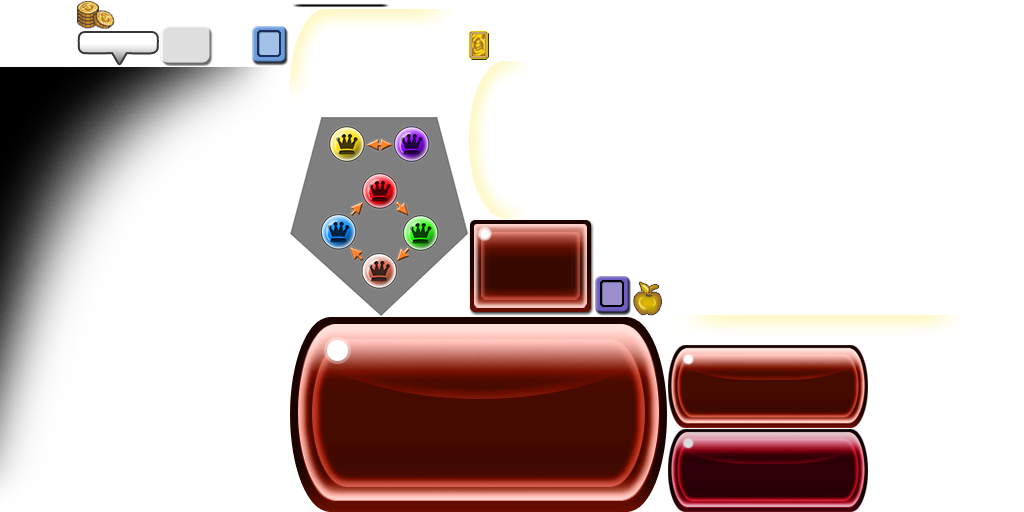
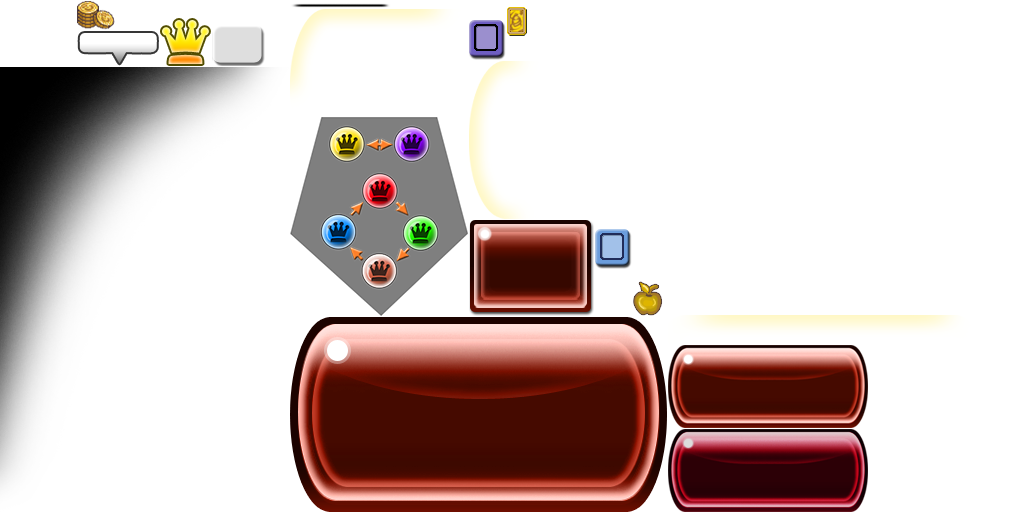
fix some bug

Changed region(s): [[0.1562, 0.0312, 0.2812, 0.1562], [0.5625, 0.4375, 0.625, 0.625], [0.4375, 0.0, 0.5312, 0.125]]

diff --git a/Client/Assets/Scripts/InBattle/Chessboard.cs b/Client/Assets/Scripts/InBattle/Chessboard.cs
@@ -99,8 +99,10 @@ public class Chessboard : MonoBehaviour {
         mChessList.Clear();
         Object perfab = Resources.Load("Cards/Perfabs/Card");
 
-        foreach (BattleCharacterData data in _stage.Players)
+        for (int i = 0; i < _stage.Players.Length; i++ )
         {
+            BattleCharacterData data = _stage.Players[i];
+
             GameObject card = Instantiate(perfab, Vector3.zero, Quaternion.identity) as GameObject;
             card.name = "Char" + data.ID.ToString();
 
@@ -112,6 +114,7 @@ public class Chessboard : MonoBehaviour {
             logic.Data.BuyPrice = 0;
             logic.Data.DropCard = 0;
             logic.Data.DropCoin = 0;
+            logic.Data.IsLeader = i <= 1;
 
             int id = mChessList.Keys.Count;
             mChessList.Add(id, logic);
@@ -131,6 +134,7 @@ public class Chessboard : MonoBehaviour {
             logic.Data.BuyPrice = data.BuyPrice;
             logic.Data.DropCard = data.DropCard;
             logic.Data.DropCoin = data.DropCoin;
+            logic.Data.IsLeader = false;
 
             int id = mChessList.Keys.Count;
             mChessList.Add(id, logic);
@@ -551,6 +555,6 @@ public class Chessboard : MonoBehaviour {
         {
             level = 1;
         }
-        iTween.ShakePosition(GameMap.gameObject, new Vector3(0.05f, 0.05f, 0) * level, 0.5f * level);
+        iTween.ShakePosition(Road.parent.gameObject, new Vector3(0.05f, 0.05f, 0) * level, 0.5f * level);
     }
 }

diff --git a/Client/Assets/NGUI/Scripts/Interaction/UIButtonSound.cs b/Client/Assets/NGUI/Scripts/Interaction/UIButtonSound.cs
@@ -30,7 +30,8 @@ public class UIButtonSound : MonoBehaviour
 	{
 		if (enabled && ((isOver && trigger == Trigger.OnMouseOver) || (!isOver && trigger == Trigger.OnMouseOut)))
 		{
-			NGUITools.PlaySound(audioClip, volume, pitch);
+            AudioCenter.Instance.PlaySound(audioClip, volume, pitch);
+			//NGUITools.PlaySound(audioClip, volume, pitch);
 		}
 	}
 
@@ -38,7 +39,8 @@ public class UIButtonSound : MonoBehaviour
 	{
 		if (enabled && ((isPressed && trigger == Trigger.OnPress) || (!isPressed && trigger == Trigger.OnRelease)))
 		{
-			NGUITools.PlaySound(audioClip, volume, pitch);
+            AudioCenter.Instance.PlaySound(audioClip, volume, pitch);
+			//NGUITools.PlaySound(audioClip, volume, pitch);
 		}
 	}
 
@@ -46,7 +48,8 @@ public class UIButtonSound : MonoBehaviour
 	{
 		if (enabled && trigger == Trigger.OnClick)
 		{
-			NGUITools.PlaySound(audioClip, volume, pitch);
+            AudioCenter.Instance.PlaySound(audioClip, volume, pitch);
+			//NGUITools.PlaySound(audioClip, volume, pitch);
 		}
 	}
 }

diff --git a/Client/Assets/Scripts/InBattle/GUI/CardUI.cs b/Client/Assets/Scripts/InBattle/GUI/CardUI.cs
@@ -15,16 +15,21 @@ public class CardUI : MonoBehaviour {
     public UISprite TalkBackground;
 
     public UISprite BuffSprite;
+    public UISprite LeaderSprite;
 
     float mBloodTargetValue = 0;
     float mManaTargetValue = 0;
 
-	// Use this for initialization
-	void Start () {
+    void Awake()
+    {
         BloodBar.sliderValue = mBloodTargetValue;
         ManaBar.sliderValue = mManaTargetValue;
         Buff = "";
         RealHideTalk();
+    }
+
+	// Use this for initialization
+	void Start () {
 	}
 	
 	// Update is called once per frame
@@ -188,6 +193,15 @@ public class CardUI : MonoBehaviour {
             string val = value;
             BuffSprite.alpha = string.IsNullOrEmpty(val) ? 0 : 1;
             BuffSprite.spriteName = val;
+            BuffSprite.MakePixelPerfect();
+        }
+    }
+
+    public bool IsLeader
+    {
+        set
+        {
+            LeaderSprite.gameObject.SetActive(value);
         }
     }
 }

diff --git a/Client/Assets/Scripts/InBattle/GUI/UIInformation.cs b/Client/Assets/Scripts/InBattle/GUI/UIInformation.cs
@@ -53,7 +53,7 @@ public class UIInformation : MonoBehaviour {
         DefLabel.text = StoreData.Def.ToString();
         SpdLabel.text = StoreData.Spd.ToString();
         SkillLabel.text = "Skill. " + (StoreData.BaseData.SkillID == 0 ? "Empty" : SkillManager.Instance.GetSkill(StoreData.BaseData.SkillID).Name);
-        LeaderSkillLabel.text = "Leader skill. Empty";
+        LeaderSkillLabel.text = "Leader skill. " + (StoreData.BaseData.LeaderSkillID == 0 ? "Empty" : LeaderSkillManager.Instance.GetSkill(StoreData.BaseData.LeaderSkillID).Name);
         LevelLabel.text = "Lv." + StoreData.Level.ToString();
 
         BloodBar.sliderValue = (float)StoreData.HP / StoreData.HPMax;

diff --git a/Client/Assets/Scripts/InBattle/CardData.cs b/Client/Assets/Scripts/InBattle/CardData.cs
@@ -18,6 +18,7 @@ public class CardData : MonoBehaviour {
     private int mAttackerHatred = 0;
 
     private bool mAutoSkill = true;
+    private bool mIsLeader = false;
 
     private Dictionary<int, RealBuffData> mBuffList = new Dictionary<int, RealBuffData>();
 
@@ -603,6 +604,19 @@ public class CardData : MonoBehaviour {
         set
         {
             mAutoSkill = value;
+        }
+    }
+
+    public bool IsLeader
+    {
+        get
+        {
+            return mIsLeader;
+        }
+        set
+        {
+            mIsLeader = value;
+            UI.IsLeader = mIsLeader;            
         }
     }
 

diff --git a/Client/Assets/NGUI/Scripts/Interaction/UIPopupList.cs b/Client/Assets/NGUI/Scripts/Interaction/UIPopupList.cs
@@ -303,7 +303,8 @@ public class UIPopupList : MonoBehaviour
 
 			if (snd.trigger == UIButtonSound.Trigger.OnClick)
 			{
-				NGUITools.PlaySound(snd.audioClip, snd.volume, 1f);
+                AudioCenter.Instance.PlaySound(snd.audioClip, snd.volume, 1f);
+				//NGUITools.PlaySound(snd.audioClip, snd.volume, 1f);
 			}
 		}
 	}

diff --git a/Client/Assets/Scripts/Data/LeaderSkill.cs b/Client/Assets/Scripts/Data/LeaderSkill.cs
@@ -116,4 +116,14 @@ public class LeaderSkillManager
             mLeaderSkillDatas[data.ID] = data;
         }
     }
+
+    public LeaderSkillData GetSkill(int _id)
+    {
+        if (!mLeaderSkillDatas.ContainsKey(_id))
+        {
+            return null;
+        }
+
+        return mLeaderSkillDatas[_id];
+    }
 }

diff --git a/Client/Assets/Scripts/InBattle/GameLogic.cs b/Client/Assets/Scripts/InBattle/GameLogic.cs
@@ -700,4 +700,9 @@ public class GameLogic : MonoBehaviour {
     {
         InfomationPanel.SetActive(false);
     }
+
+    public void ShakeMap(int _level)
+    {
+        GameChessboard.ShakeMap(_level);
+    }
 }
